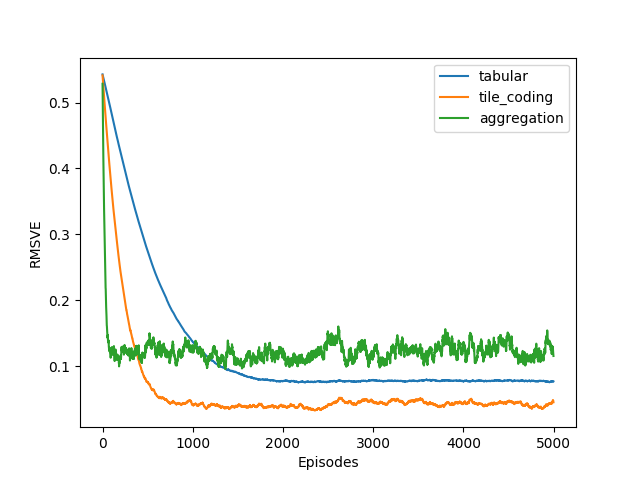
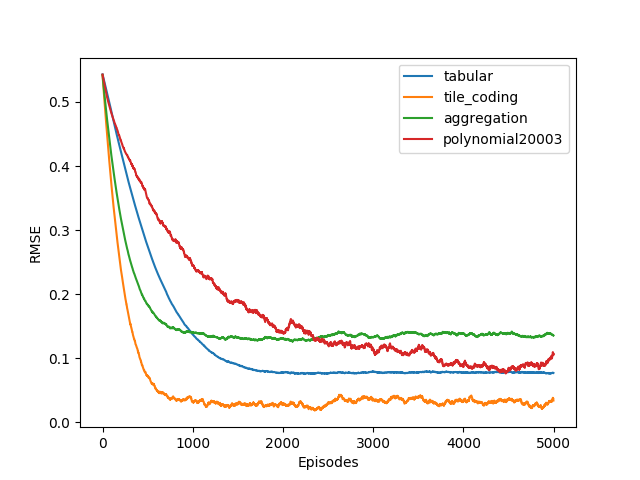
The big one

diff --git a/assignment6/part2/random_walk_exp.py b/assignment6/part2/random_walk_exp.py
@@ -35,8 +35,8 @@ if __name__ == "__main__":
     # agents = [  'polynomial2003', # for alpha tuning experiment v2
     #             'polynomial2001', 
     #             'polynomial20003']
-    runs = 5
-    num_episodes = 3000
+    runs = 10
+    num_episodes = 5000
     max_steps = 10000
     seed = 366609
 

diff --git a/assignment6/part2/README.md b/assignment6/part2/README.md
@@ -3,7 +3,7 @@
 `python random_walk_exp.py`
 
 ## State Aggregation
-While the assignment suggests using alpha = 0.1, I found the resulting error graph to be quite erratic, bumpy, high variability. Further, the result was an aggressive drop between states 0-50. When comparing this to Figure 9.10 in the text, I experimented with lowering alpha. With alpha = 0.01, the resulting graph is much smoother and more closely resembles that in the textbook. The sacrifice is the quick reduction in RMSE. A quick 5 run averaged graph is available as `random_walk01.png`.
+While the assignment suggests using alpha = 0.1, I found the resulting error graph to be quite erratic, bumpy, high variability. Further, the result was an aggressive drop between states 0-50. When comparing this to Figure 9.10 in the text, I experimented with lowering alpha. With alpha = 0.01, the resulting graph is much smoother and more closely resembles that in the textbook. The sacrifice is the quick reduction in RMSE. A quick 5 run, 3000 episode averaged graph is available as `random_walk01.png`.
 
 Further, I implemented state aggregation both in a "manual" sense (see `old_aggregation_agent.py`) by mapping state to one of ten indices, similar to the tabular case. I found this to be very noisy when graphing. Instead, the `aggregation_agent.py` uses `tiles3.py` with one tiling layer and achieves superior results. The main graph `random_walk.png` uses this method. 
 # Polynomials
